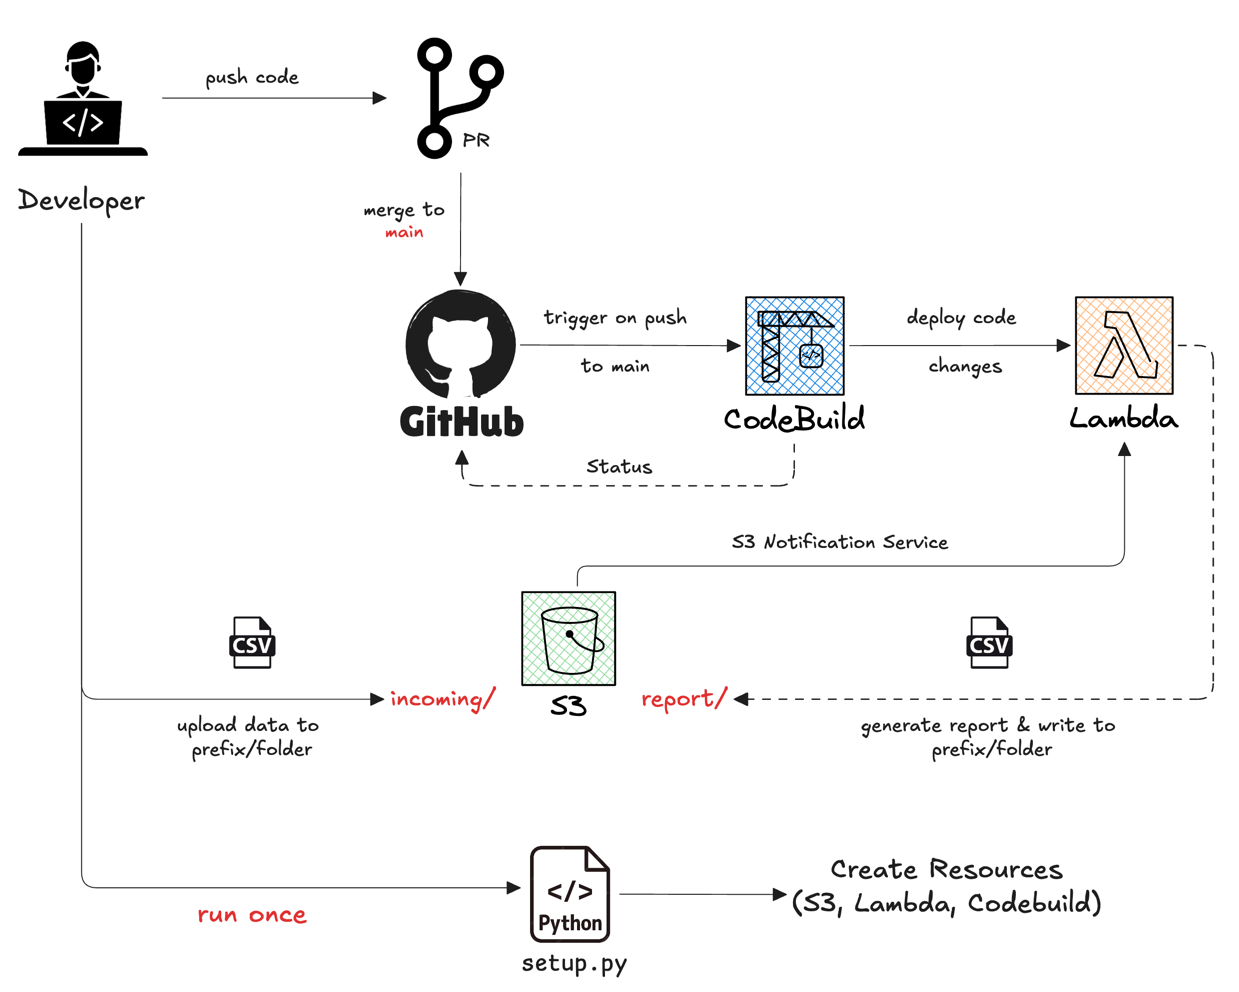
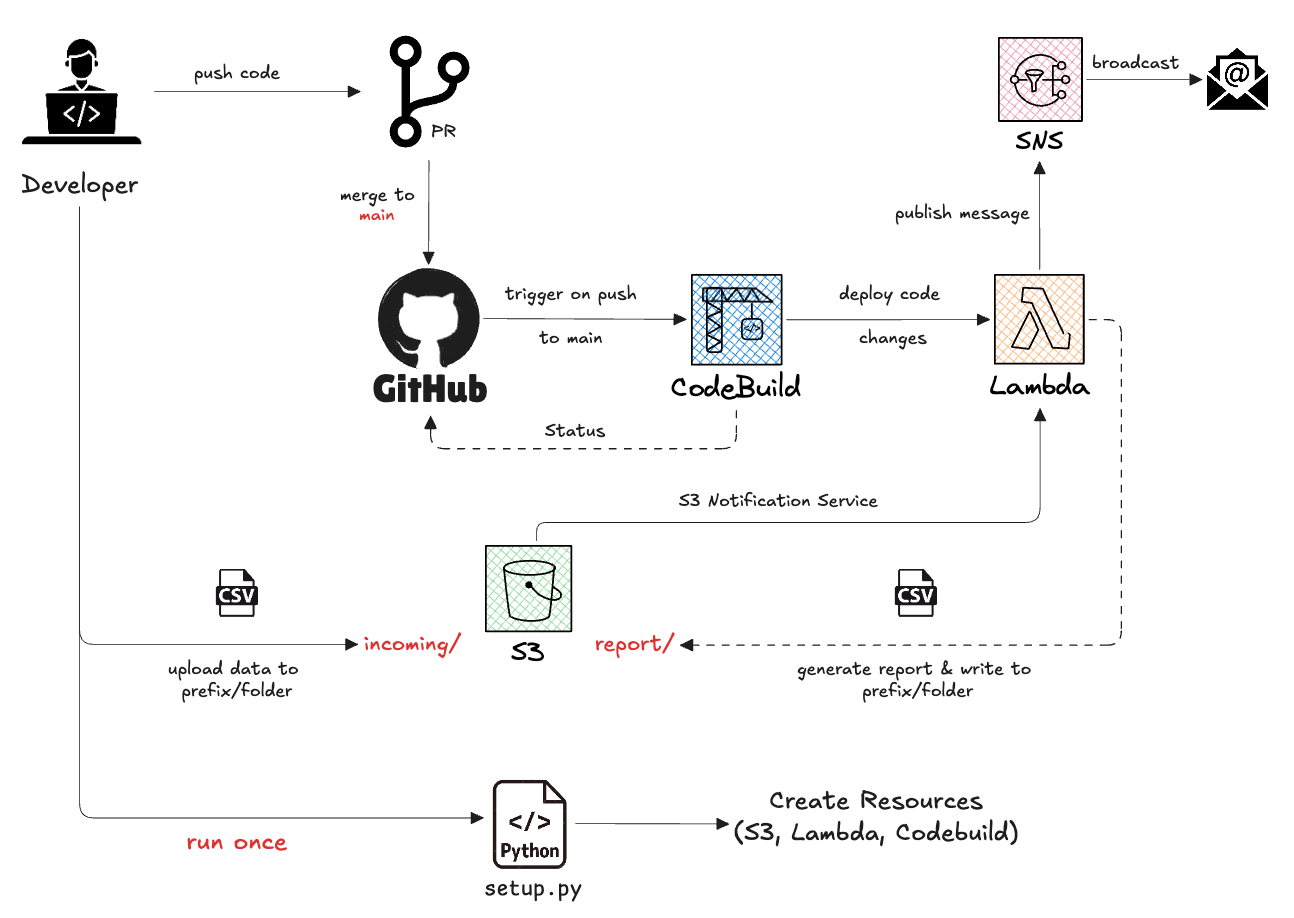
docs: update README to include SNS integration and troubleshooting steps (#13)

diff --git a/README.md b/README.md
@@ -3,7 +3,7 @@
 A serverless pipeline that processes order CSV files uploaded to S3 and generates city-wise revenue summaries. 
 Uploading a file to the S3 landing prefix triggers a Lambda function that aggregates revenue by city and 
 writes a summary report back to S3. Code changes pushed to main are automatically built and deployed via 
-AWS CodeBuild.
+AWS CodeBuild. Lambda also publishes processing/report status to SNS.
 
 ## Prerequisites
 
@@ -51,7 +51,6 @@ LAMBDA_TIMEOUT=60
 LAMBDA_MEMORY=256
 LAMBDA_EPHEMERAL_SIZE=512
 
-
 CODE_BUILD_PROJECT_NAME=<your_codebuild_project_name>
 CODE_BUILD_SOURCE=GITHUB
 CODE_BUILD_REPO_URL=<repo_url>
@@ -59,8 +58,18 @@ CODE_BUILD_ENVIRONMENT=ARM_LAMBDA_CONTAINER
 CODE_BUILD_COMPUTE_TYPE=BUILD_LAMBDA_1GB
 CODE_BUILD_IMAGE=aws/codebuild/amazonlinux-aarch64-lambda-standard:python3.14
 CODE_BUILD_ROLE_NAME=<your_codebuild_role_name>
+
+SNS_TOPIC_ARN=<your_topic_arn>
 ```
 
+#### 3.1 Simple Notification Service Setup
+
+1. Go to AWS Console.
+2. Search for SNS and then create a `standard` topic.
+3. Create a subscription : Email
+   - Login into your email(Gmail/Proton) and confirm the subscription.  
+4. Copy the topic arn and paste it in env variable `SNS_TOPIC_ARN`.
+ 
 ### 4. Deploy Infrastructure
 
 Run the master setup script to create all AWS resources:
@@ -204,3 +213,9 @@ The project uses AWS CodeBuild for continuous deployment:
 
 ---
 
+## Troubleshooting
+
+If you get an error indicating `SNS_TOPIC_ARN` is not defined in Lambda, open the AWS Lambda console and add an environment variable named `SNS_TOPIC_ARN`.
+Set its value to your SNS topic ARN.
+
+---
